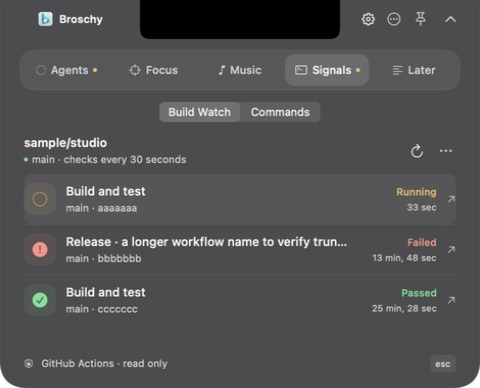
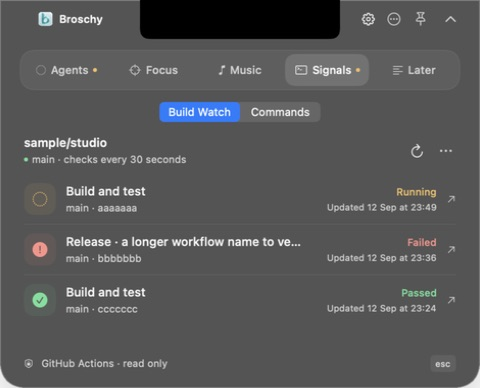
Fix misleading Build Watch time counters

diff --git a/Sources/Broschy/BuildWatchView.swift b/Sources/Broschy/BuildWatchView.swift
@@ -180,6 +180,12 @@ struct BuildWatchView: View {
     private func row(_ run: BuildWatchRun) -> some View {
         let stale = !builds.isLive
         let color = stale ? Ink.muted : run.state.tint
+        // GitHub's updated_at is metadata freshness, not an execution duration.
+        // A relative date keeps ticking even after the workflow has completed.
+        let updateTime = run.updatedAt.formatted(.dateTime.month(.abbreviated).day()
+            .hour(.twoDigits(amPM: .omitted)).minute(.twoDigits).locale(Locale(identifier: "en_GB")))
+        let fullUpdateTime = run.updatedAt.formatted(.dateTime.year().month(.abbreviated).day()
+            .hour(.twoDigits(amPM: .omitted)).minute(.twoDigits).second(.twoDigits).locale(Locale(identifier: "en_GB")))
         return Button { NSWorkspace.shared.open(run.htmlURL) } label: {
             HStack(spacing: 10) {
                 Image(systemName: stale && run.isActive ? "questionmark.circle" : run.state.symbol)
@@ -195,7 +201,7 @@ struct BuildWatchView: View {
                 VStack(alignment: .trailing, spacing: 3) {
                     Text(stale && run.isActive ? "Last seen active" : run.statusText)
                         .font(.system(size: 10, weight: .medium)).foregroundStyle(color).lineLimit(1)
-                    Text(run.updatedAt, style: .relative)
+                    Text("Updated \(updateTime)")
                         .font(.system(size: 9)).foregroundStyle(Ink.muted).lineLimit(1)
                 }
                 Image(systemName: "arrow.up.right").font(.system(size: 9)).foregroundStyle(Ink.muted)
@@ -203,8 +209,8 @@ struct BuildWatchView: View {
             .padding(.vertical, 9).contentShape(Rectangle())
         }
         .buttonStyle(QuietButtonStyle())
-        .help("\(run.name) · \(run.statusText) · Open workflow on GitHub")
-        .accessibilityLabel("\(run.name), \(stale && run.isActive ? "last seen active" : run.statusText). Open workflow on GitHub.")
+        .help("\(run.name) · \(run.statusText) · Last GitHub update: \(fullUpdateTime) · Open workflow on GitHub")
+        .accessibilityLabel("\(run.name), \(stale && run.isActive ? "last seen active" : run.statusText). Updated \(fullUpdateTime). Open workflow on GitHub.")
     }
 
     private var connectionDetail: String {

diff --git a/README.md b/README.md
@@ -49,7 +49,7 @@ Broschy is a small, native macOS companion that lives around your MacBook's notc
 
 ## Get started
 
-**Current version: 0.8.0.** Broschy is an early, source-first release. Build it locally with **Xcode 26 or later** and its macOS SDK. The app's deployment target is **macOS 14**; hands-on validation has been on macOS 26 and Apple Silicon. The build produces an app for your Mac's architecture.
+**Current version: 0.8.1.** Broschy is an early, source-first release. Build it locally with **Xcode 26 or later** and its macOS SDK. The app's deployment target is **macOS 14**; hands-on validation has been on macOS 26 and Apple Silicon. The build produces an app for your Mac's architecture.
 
 ```sh
 git clone https://github.com/SculptTechProject/Broschy.git
@@ -114,6 +114,8 @@ In **Signals → Build Watch**, connect one GitHub.com repository or pull reques
 3. Leave the branch blank to use the repository's default branch, or enter a branch name. A pull request follows its current head commit.
 
 Broschy uses your existing GitHub CLI access and checks up to ten recent workflow runs about every 30 seconds. Failed requests retry less often. A workflow observed active and then completed can show its result in the notch for 12 seconds; existing completed runs on first connection are silent, and repeated results are deduplicated. Runs that finish entirely between polls appear in the list but do not trigger a compact result. Compact visibility and Quiet Focus still apply.
+
+Each row shows a fixed **Updated** date and time from GitHub, not a running duration. A completed workflow appears after the next successful poll; use Refresh for an immediate check.
 
 Open a workflow in GitHub to inspect it. Build Watch only reads status: it does not download workflow logs, rerun jobs, cancel workflows, or merge pull requests. GitHub Enterprise hosts and watching several targets at once are outside this version. Disconnect to stop polling.
 
